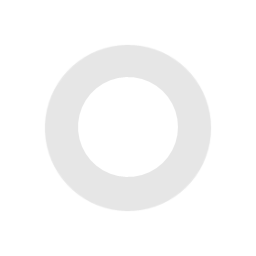
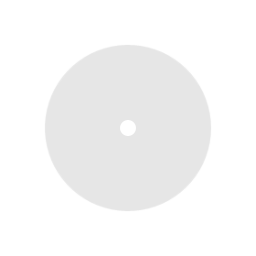
woaaa

Changed region(s): [[0.2812, 0.2812, 0.7188, 0.6875]]

diff --git a/src/instafade.py b/src/instafade.py
@@ -1,15 +1,38 @@
+from PIL import Image,ImageChops
+from coloraide import Color
 import utils
-from PIL import Image
+
+def tint_image(image, tint_color):
+    pixels = image.load()
+    r_,g_,b_ = tint_color
+    r,g,b = int(r_*255),int(g_*255),int(b_*255)
+    
+    for y in range(image.size[1]):
+        for x in range(image.size[0]):
+            _,_,_,a = pixels[x, y]
+            pixels[x, y] = (r,g,b,a)
 
 def create_circles():
     hit_circle = Image.open("assets/gameplay/standard/hit-circle.png")
+    hit_circle_alt = Image.open("assets/gameplay/standard/hit-circle-alt.png")
     approach = Image.open("assets/gameplay/standard/approach.png")
     
     insta_fading_circle = utils.resize_by_multiplier(hit_circle,1/0.8)
+    insta_fading_circle_alt = utils.resize_by_multiplier(hit_circle_alt,1/0.8)
     
-    for i in range(10):
+    #colors = list(Color("").range_to(Color(""),10))
+    colors = Color.steps(['#0091FF', '#ffffff', '#a200ff'], steps=10, space='hsl')
+
+    
+    for i in range(0,10):
+        color = colors[i].convert("srgb").coords()
+        print(color)
+        tint_image(insta_fading_circle_alt,color)
+        insta_fading_circle.paste(insta_fading_circle_alt,(0,0),insta_fading_circle_alt)
         utils.save_hd_sd(insta_fading_circle,f"build/default-{i}.png")
     
     utils.save_hd_sd(approach,"build/approachcircle.png")
     utils.remove("build/hitcircle.png")
     utils.remove("build/hitcircleoverlay.png")
+
+create_circles()
